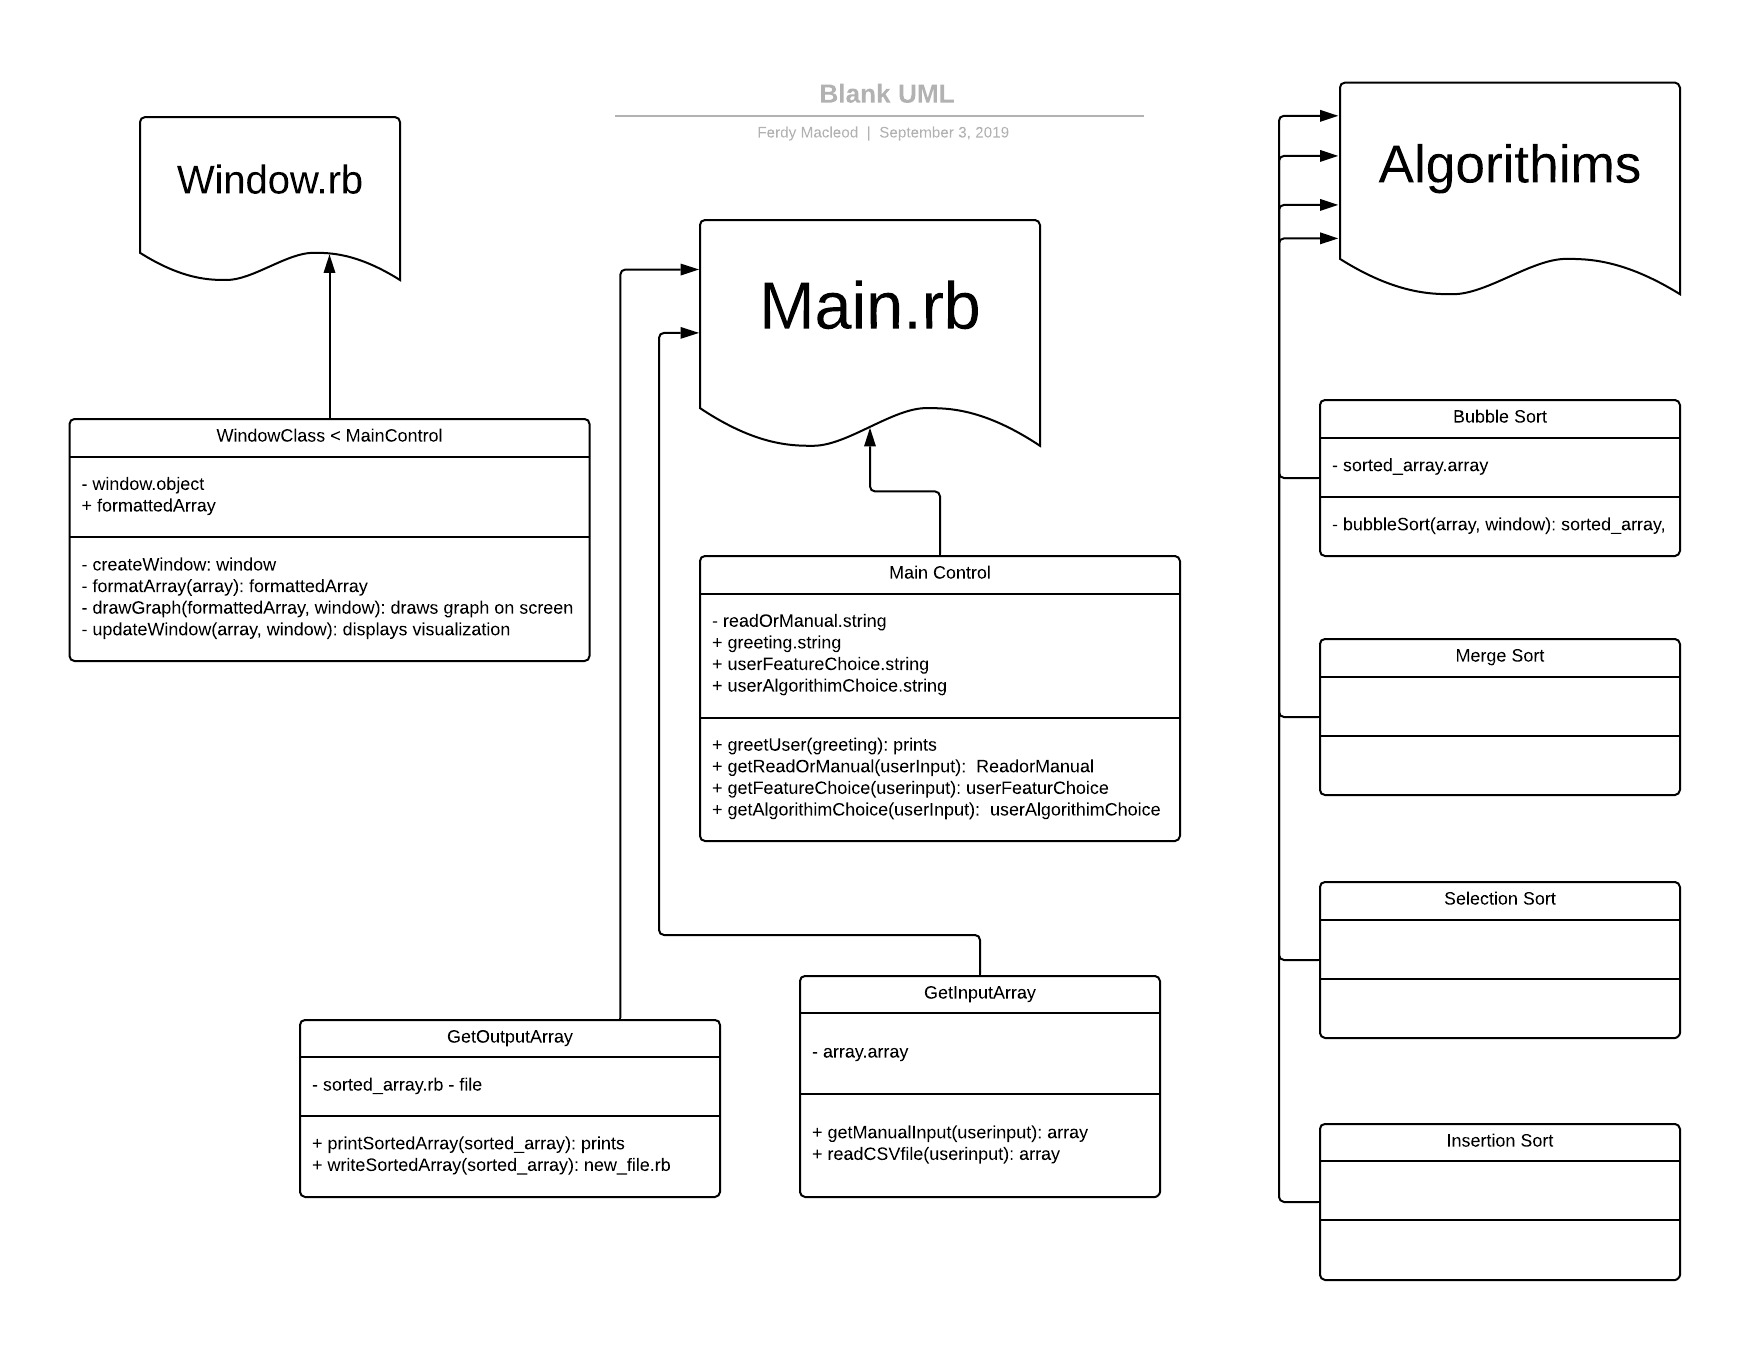
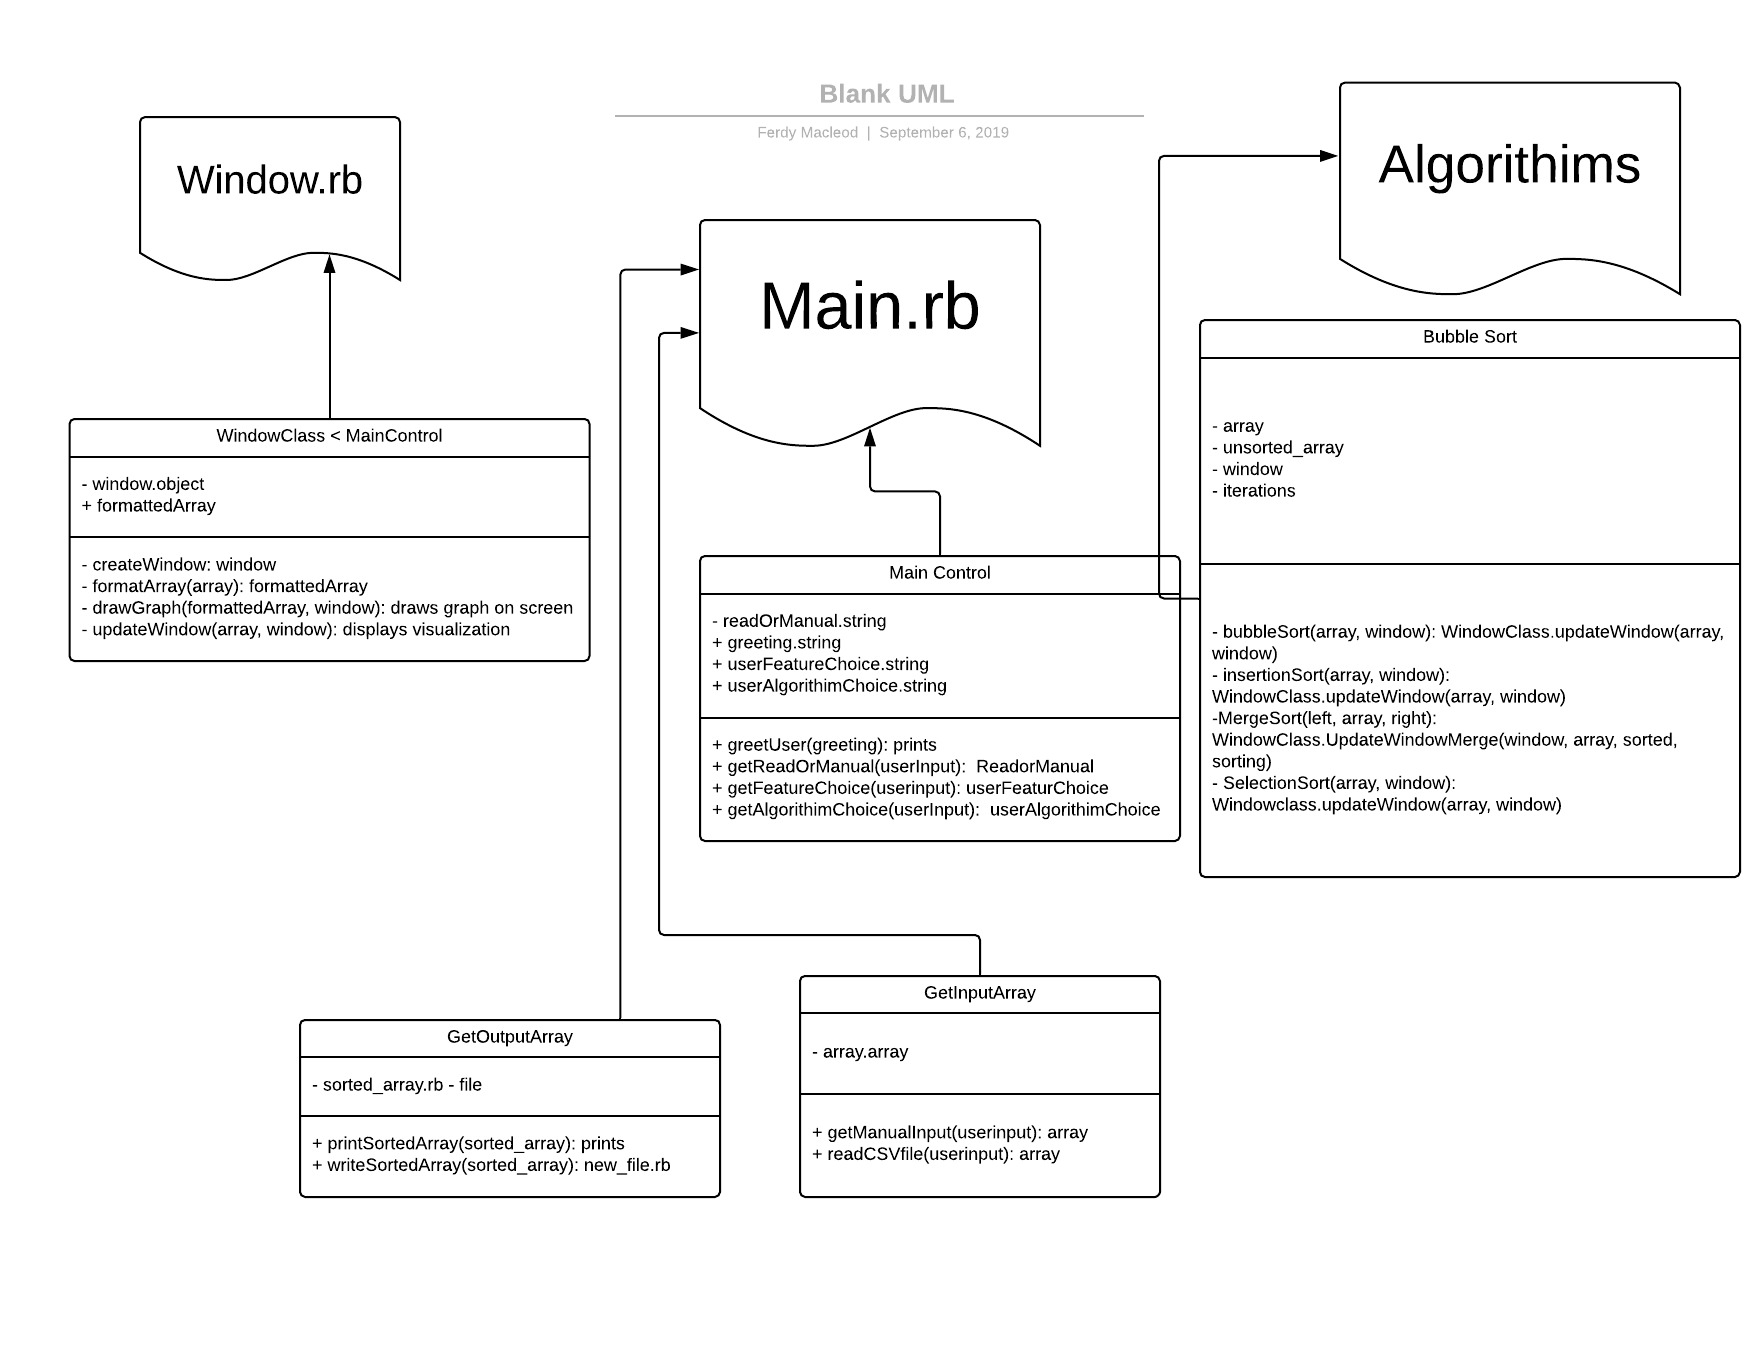
Added all diagrams

diff --git a/README.md b/README.md
@@ -88,17 +88,37 @@ The user begins by choosing how they want to input their unsorted array, this ca
 ## Implementation and Design Plan
 ***
 
-Implementation plan was done using trello.com
+#### Implementation plan 
 
 ![Implementation](./docs/diagrams/implementation.PNG?raw=true "Implementation plan")
 
+### Timeline
+
 ![timeline](./docs/diagrams/timeline.jpg?raw=true "Title")
 
-![Process Diagram](./docs/diagrams/process_diagram.jpg?raw=true "VisualSort Process Diagram")
+### Process Diagram
+
+![Process Diagram](./docs/diagrams/process_diagram.jpeg?raw=true "VisualSort Process Diagram")
+
+### Class Diagram
 
 ![class](./docs/diagrams/class_diagram.jpeg?raw=true "VisualSort Class Diagram")
 
-![flow](./docs/diagrams/flow_diagram.jpeg?raw=true "VisualSort Flow Diagram")
+### Bubble Sort
+
+![bubblesort](./docs/diagrams/BubbleSort.png?raw=true "Bubble Sort")
+
+### Insertion Sort
+
+![InsertionSort](./docs/diagrams/InsertionSort.png?raw=true "Insertion Sort")
+
+### Selection Sort
+
+![SelectionSort](./docs/diagrams/SelectionSort.jpg?raw=true "Selection Sort")
+
+### Merge Sort
+
+![MergeSort](./docs/diagrams/MergeSort.png?raw=true "Merge Sort")
 
 
 
